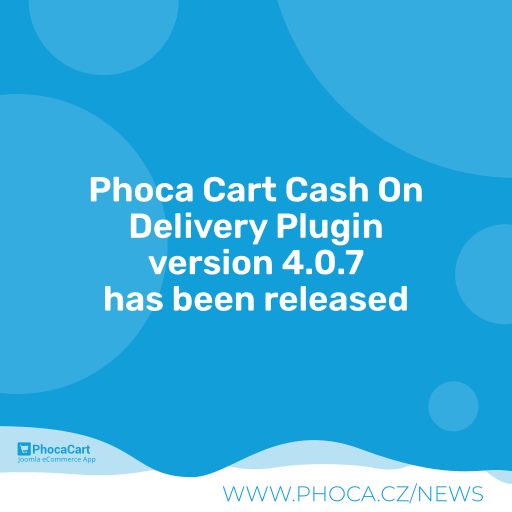
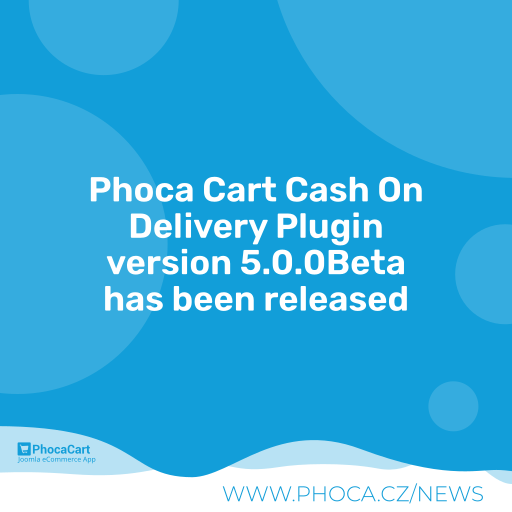
4.0.9

Changed region(s): [[0.1875, 0.4688, 0.8125, 0.5625]]

diff --git a/cash_on_delivery.php b/cash_on_delivery.php
@@ -8,13 +8,14 @@
  */
 
 defined('_JEXEC') or die;
+use Joomla\CMS\Plugin\CMSPlugin;
 jimport( 'joomla.plugin.plugin' );
 jimport( 'joomla.filesystem.file');
 jimport( 'joomla.html.parameter' );
 
 JLoader::registerPrefix('Phocacart', JPATH_ADMINISTRATOR . '/components/com_phocacart/libraries/phocacart');
 
-class plgPCPCash_On_Delivery extends JPlugin
+class plgPCPCash_On_Delivery extends CMSPlugin
 {
 
 	protected $name 	= 'cash_on_delivery';

diff --git a/README.MD b/README.MD
@@ -60,7 +60,11 @@ Phoca Cart Payment - Cash On Delivery Plugin - payment method for Phoca Cart com
 
 ## Version (Joomla! 4.x)
 
-4.0.7
+4.0.9
+
+## Version (Joomla! 5.x)
+
+5.0.0Beta
 
 
 
@@ -71,3 +75,17 @@ GNU/GPL
 
 
 This project is open source project - feel free to contribute! Thank you.
+
+
+
+## Social Media
+
+- [Phoca on Facebook](https://www.facebook.com/Phoca.cz)
+
+- [Phoca on X (Twitter)](https://twitter.com/PhocaCz)
+
+- [Phoca on YouTube](https://www.youtube.com/user/phocavideos)
+
+- [Phoca on GitHub](https://github.com/PhocaCz)
+
+- [Phoca on Reddit](https://www.reddit.com/user/PhocaCz)
